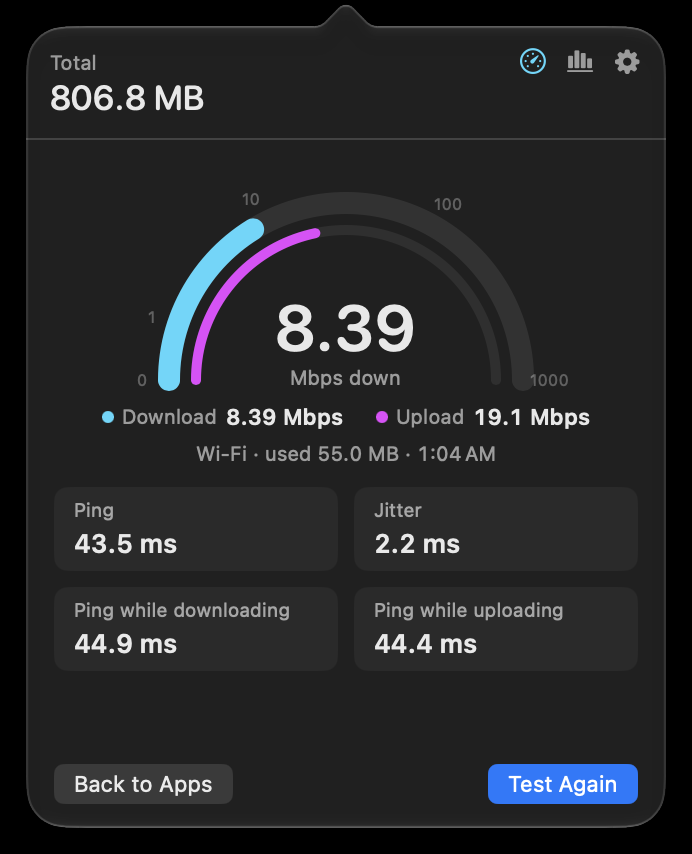
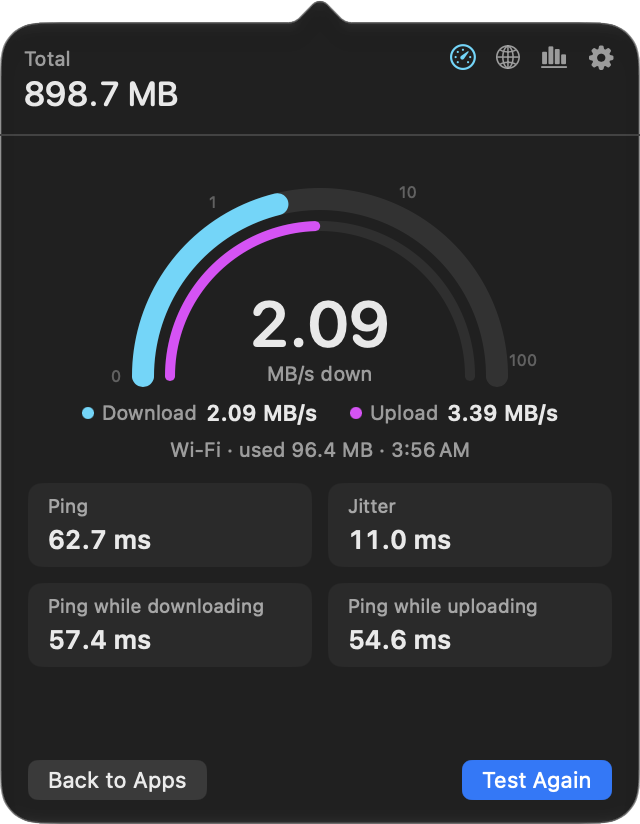
Keep the wiki in step with docs/ by itself, and retake its screenshot (#177) (#178)
* Keep the wiki in step with docs/ by itself, and retake its screenshot (#177)

Scripts/wiki.py builds the wiki from the tracked docs, and the Wiki
workflow runs it on every push to main that touches them. The README
links the wiki. The speed test screenshot is retaken from 1.17.1, the
two Mermaid diagrams draw what the code does, and two stale comments
are brought up to date.

* Keep the content filter's note inside the diagram (#177)

diff --git a/Package.swift b/Package.swift
@@ -2,7 +2,7 @@
 //
 // Tools version 5.9 is deliberate: it defaults to the Swift 5 language mode, so
 // the package builds without Swift 6's strict-concurrency annotations while
-// still compiling under the Swift 6.3 toolchain.
+// still compiling under a Swift 6 toolchain.
 import PackageDescription
 
 let package = Package(

diff --git a/Scripts/wiki.py b/Scripts/wiki.py
@@ -1,0 +1,157 @@
+#!/usr/bin/env python3
+#
+# Builds the GitHub wiki from docs/ and SECURITY.md (#177). The repository is
+# the source; the wiki is a copy, rebuilt by .github/workflows/wiki.yml on every
+# push to main that touches the docs, so it never needs editing by hand.
+#
+# Only files git tracks are read. docs/ also holds private notes that git
+# ignores, and the wiki is public.
+#
+# Each page keeps its text. Links are rewritten for the wiki: page to page, to
+# images at the commit being mirrored, to other files in the repository, and
+# #N to the issue. The sidebar follows docs/README.md's tables, and a page
+# whose doc is gone is removed.
+#
+# Usage:
+#   python3 Scripts/wiki.py <wiki checkout> [commit]    commit defaults to HEAD
+
+import pathlib
+import re
+import subprocess
+import sys
+
+REPO = "https://github.com/kevinabouhanna/NetworkMonitor"
+RAW = "https://raw.githubusercontent.com/kevinabouhanna/NetworkMonitor"
+ROOT = pathlib.Path(__file__).resolve().parent.parent
+
+# Pages named other than after their file.
+NAMES = {
+    "SECURITY.md": "Security-Policy",
+    "docs/development.md": "Building-Testing-and-Releasing",
+}
+
+LINK = re.compile(r"(!?)\[([^\]]*)\]\(([^)\s]+)\)")
+ATTRIBUTE = re.compile(r'(src|href)="([^"]+)"')
+ISSUE = re.compile(r"(?<![\w/&\[])#(\d{1,4})\b(?!\])")
+
+
+def tracked_docs() -> list[str]:
+    files = subprocess.run(["git", "ls-files", "docs/*.md", "SECURITY.md"], cwd=ROOT,
+                           check=True, capture_output=True, text=True).stdout.split()
+    return [f for f in files if f != "docs/README.md" and "/" not in f.removeprefix("docs/")]
+
+
+def page_name(file: str) -> str:
+    if file in NAMES:
+        return NAMES[file]
+    words = pathlib.PurePosixPath(file).stem.split("-")
+    return "-".join(w if w == "and" else w.capitalize() for w in words)
+
+
+def resolve(target: str, source: str, pages: dict[str, str], commit: str, image: bool) -> str:
+    """Where a link in `source` points on the wiki."""
+    if re.match(r"^[a-z]+:", target) or target.startswith("#"):
+        return target
+    path, _, anchor = target.partition("#")
+    parts: list[str] = []
+    for part in (pathlib.PurePosixPath(source).parent / path).parts:
+        if part == "..":
+            parts.pop()
+        elif part != ".":
+            parts.append(part)
+    file = "/".join(parts)
+    suffix = f"#{anchor}" if anchor else ""
+    if file in pages:
+        return pages[file] + suffix
+    if file == "docs/README.md":
+        return "Home" + suffix
+    if file == "README.md":
+        return f"{REPO}{suffix or '#readme'}"
+    if image or re.search(r"\.(png|gif|jpe?g|svg)$", file):
+        return f"{RAW}/{commit}/{file}"
+    kind = "blob" if "." in file.rsplit("/", 1)[-1] else "tree"
+    return f"{REPO}/{kind}/main/{file}{suffix}"
+
+
+def link_issues(text: str) -> str:
+    """#N to a link, outside inline code and outside links already there."""
+    def issue(m: re.Match) -> str:
+        return f"[#{m.group(1)}]({REPO}/issues/{m.group(1)})"
+
+    def outside_links(piece: str) -> str:
+        out, last = [], 0
+        for m in LINK.finditer(piece):
+            out += [ISSUE.sub(issue, piece[last:m.start()]), m.group(0)]
+            last = m.end()
+        return "".join(out) + ISSUE.sub(issue, piece[last:])
+
+    pieces = text.split("`")
+    pieces[::2] = [outside_links(p) for p in pieces[::2]]
+    return "`".join(pieces)
+
+
+def convert(text: str, source: str, pages: dict[str, str], commit: str) -> str:
+    lines, fenced = [], False
+    for line in text.split("\n"):
+        if line.lstrip().startswith("```"):
+            fenced = not fenced
+        elif not fenced:
+            line = LINK.sub(lambda m: f"{m.group(1)}[{m.group(2)}]"
+                            f"({resolve(m.group(3), source, pages, commit, bool(m.group(1)))})", line)
+            line = ATTRIBUTE.sub(lambda m: f'{m.group(1)}="'
+                                 f'{resolve(m.group(2), source, pages, commit, m.group(1) == "src")}"', line)
+            line = link_issues(line)
+        lines.append(line)
+    return "\n".join(lines)
+
+
+def sidebar(index: str, pages: dict[str, str]) -> str:
+    """The pages in docs/README.md's order, under its headings."""
+    lines, listed = ["**[Home](Home)**"], set()
+    for line in index.split("\n"):
+        if line.startswith("## "):
+            lines += ["", f"**{line[3:]}**", ""]
+        elif line.startswith("| ["):
+            m = LINK.search(line)
+            file = str(pathlib.PurePosixPath("docs") / m.group(3)).replace("docs/../", "")
+            if file in pages:
+                lines.append(f"- [{m.group(2)}]({pages[file]})")
+                listed.add(file)
+    unlisted = [f for f in pages if f not in listed]
+    if unlisted:
+        lines += ["", "**More**", ""] + [f"- [{pages[f].replace('-', ' ')}]({pages[f]})" for f in unlisted]
+    return "\n".join(lines) + "\n"
+
+
+def main() -> None:
+    if len(sys.argv) not in (2, 3):
+        sys.exit(f"usage: {sys.argv[0]} <wiki checkout> [commit]")
+    wiki = pathlib.Path(sys.argv[1])
+    commit = sys.argv[2] if len(sys.argv) == 3 else subprocess.run(
+        ["git", "rev-parse", "HEAD"], cwd=ROOT, check=True, capture_output=True, text=True).stdout.strip()
+
+    pages = {file: page_name(file) for file in tracked_docs()}
+    written = {"Home.md", "_Sidebar.md", "_Footer.md"}
+    for file, page in pages.items():
+        (wiki / f"{page}.md").write_text(convert((ROOT / file).read_text(), file, pages, commit))
+        written.add(f"{page}.md")
+
+    index = (ROOT / "docs/README.md").read_text()
+    body = index.split("\n", 1)[1].lstrip("\n") if index.startswith("# ") else index
+    (wiki / "Home.md").write_text(
+        "**Live network speed in your Mac's menu bar, and which apps used your data.**\n\n"
+        f"[Download]({REPO}/releases/latest/download/NetworkMonitor.dmg) · "
+        f"[Website](https://kevinabouhanna.github.io/NetworkMonitor/) · [Source]({REPO})\n\n"
+        + convert(body, "docs/README.md", pages, commit))
+    (wiki / "_Sidebar.md").write_text(sidebar(index, pages))
+    (wiki / "_Footer.md").write_text(
+        f"Copied from [`docs/`]({REPO}/tree/main/docs) at [`{commit[:7]}`]({REPO}/commit/{commit}). "
+        "The repository is the source: change the docs there, in a pull request, and the wiki follows.\n")
+
+    for stale in wiki.glob("*.md"):
+        if stale.name not in written:
+            stale.unlink()
+
+
+if __name__ == "__main__":
+    main()

diff --git a/docs/hotspot-mode.md b/docs/hotspot-mode.md
@@ -197,22 +197,30 @@ program of its own is counted by its own traffic.
 sequenceDiagram
     participant Mac as macOS network
     participant W as NetworkIdentityWatcher
+    participant VM as MonitorViewModel
     participant M as MeteringController
-    participant J as Journal (suppression.json)
     participant S as Suppressors
+    participant J as Journal (suppression.json)
     participant H as Root helper
+    participant F as Content filter
 
     Mac->>W: path changes (debounced 2 s)
-    W->>M: fingerprint + signals
-    M->>M: MeteredHeuristic verdict (own Low Data Mode flags masked)
+    W->>VM: fingerprint + signals
+    VM->>M: the network changed
+    M->>M: MeteredHeuristic verdict (This network first, own Low Data Mode flags masked)
+    M-->>VM: verdict
+    VM->>F: rules, and whether on a hotspot with Hotspot mode on (over XPC)
     alt switch on and metered
-        M->>J: record each prior value first
-        M->>S: apply (preferences, config files)
-        M->>H: suppress, constrain (over XPC)
+        M->>S: apply
+        S->>J: record each prior value first
+        S->>S: preferences, config files, update folders
+        S->>H: suppress, constrain (over XPC)
+        Note left of F: with website names on, blocks every app's updater
     else no longer metered, or switch off
-        M->>S: revert from the journal
-        M->>H: restore, unconstrain (over XPC)
-        M->>J: clear records
+        M->>S: revert
+        S->>S: put back each value still as NetworkMonitor wrote it
+        S->>H: restore, unconstrain (over XPC)
+        S->>J: clear records
     end
 ```
 

diff --git a/README.md b/README.md
@@ -18,7 +18,8 @@
 <p align="center">
   <a href="https://github.com/kevinabouhanna/NetworkMonitor/releases/latest/download/NetworkMonitor.dmg"><b>Download</b></a> ·
   <a href="https://kevinabouhanna.github.io/NetworkMonitor/">Website</a> ·
-  <a href="docs/README.md">Docs</a>
+  <a href="docs/README.md">Docs</a> ·
+  <a href="https://github.com/kevinabouhanna/NetworkMonitor/wiki">Wiki</a>
 </p>
 
 <p align="center">
@@ -70,7 +71,7 @@ Right-click the menu bar readout and choose **Uninstall NetworkMonitor…** (or 
 
 ## 📚 Learn more
 
-The [docs](docs/README.md) explain how every feature works, and why:
+The [docs](docs/README.md) explain how every feature works, and why. They're also on the [wiki](https://github.com/kevinabouhanna/NetworkMonitor/wiki).
 
 - **Using it:** [installing](docs/installing.md) · [features](docs/features.md) · [Connections](docs/connections.md) · [Usage History](docs/usage-history.md) · [speed test](docs/speed-test.md) · [Hotspot mode](docs/hotspot-mode.md) · [accuracy and battery](docs/accuracy-and-battery.md) · [privacy](docs/privacy.md)
 - **Working on it:** [architecture](docs/architecture.md) · [building and releasing](docs/development.md) · [decisions](docs/decisions.md) · [roadmap](docs/roadmap.md)

diff --git a/docs/development.md b/docs/development.md
@@ -255,6 +255,21 @@ beside the main checkout. Changes to it get an issue and a pull request against
   shows each pane as a capture in `assets/settings/`, with the window's size in points on
   each `<img>` and clickable areas placed in the same points.
 
+## The wiki
+
+The [wiki](https://github.com/kevinabouhanna/NetworkMonitor/wiki) is a copy of `docs/` and
+`SECURITY.md`, made by `Scripts/wiki.py` (#177). The **Wiki** workflow
+(`.github/workflows/wiki.yml`) rebuilds it whenever they change on `main`, so change the
+docs here, never the wiki.
+
+- A page comes and goes with its doc, and the sidebar follows the tables in
+  `docs/README.md`.
+- Links are rewritten for the wiki, and images point at the commit that was copied.
+- Only files git tracks are copied, so the private notes git ignores in `docs/` stay
+  private.
+- To rebuild it by hand, run the workflow from the Actions tab, or
+  `python3 Scripts/wiki.py <wiki checkout>` and push.
+
 ## Launch arguments
 
 A development build reads a few launch arguments for that run only; nothing persists.

diff --git a/docs/speed-test.md b/docs/speed-test.md
@@ -1,8 +1,8 @@
 # Speed test
 
 <p align="center">
-  <img src="../Resources/README/speed-test.png" width="346"
-       alt="The popover after a speed test: 8.39 Mbps down and 19.1 Mbps up over Wi-Fi, using 55.0 MB; ping 43.5 ms, jitter 2.2 ms, ping while downloading 44.9 ms and while uploading 44.4 ms.">
+  <img src="../Resources/README/speed-test.png" width="320"
+       alt="The popover after a speed test: 2.09 MB/s down and 3.39 MB/s up over Wi-Fi, using 96.4 MB; ping 62.7 ms, jitter 11.0 ms, ping while downloading 57.4 ms and while uploading 54.6 ms.">
 </p>
 
 Click the **gauge** in the popover, choose **Test Internet Speed** from the right-click

diff --git a/docs/architecture.md b/docs/architecture.md
@@ -47,13 +47,17 @@ flowchart LR
     P --> NW --> VM
     E --> VM
     VM --> US --> H
+    H -->|"read by History<br/>and Connections"| UI
     VM --> M
     UI -->|"This network: hotspot or not"| M
     M -->|"XPC, signature checked both ways"| HP
-    VM --> F
+    VM -->|"rules, and whether<br/>on a hotspot"| F
     F <-->|"XPC, signature checked both ways"| FX
+    F -->|"server names,<br/>blocked connections"| H
     VM --> SP
-    VM --> UP --> GH
+    VM --> UP
+    GH -->|"signed appcast<br/>and data"| UP
+    UP -->|"each month's data"| F
     VM --> UI
 ```
 
